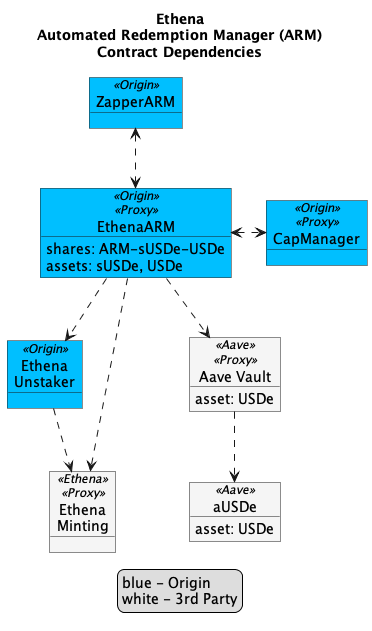
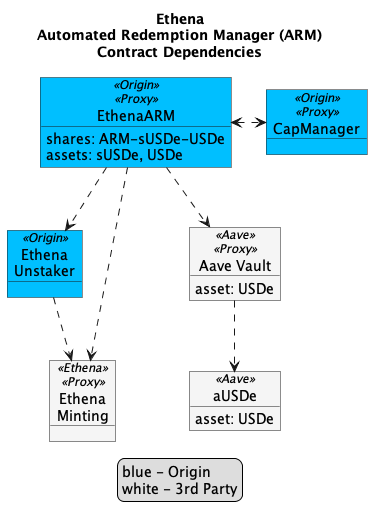
Set Lido ARM off Kyber prices (#174)
* Added Kyber to setPrices used by the Lido ARM

* Updated Lido ARM's set price Action

* Updated maxSellPrice for Lido ARM setPrices Actions

* Increased the Lido ARM allocate threshold

* Remove Zapper from Ethena contract diagram

* Update LidoARM ABI

diff --git a/src/js/tasks/lidoMorphoPrices.js b/src/js/tasks/lidoMorphoPrices.js
@@ -3,6 +3,7 @@ const { formatUnits, parseUnits } = require("ethers");
 const addresses = require("../utils/addresses");
 
 const { abs } = require("../utils/maths");
+const { getKyberPrices } = require("../utils/kyber");
 const { get1InchPrices } = require("../utils/1Inch");
 const { logTxDetails } = require("../utils/txLogger");
 const { getCurvePrices } = require("../utils/curve");
@@ -26,8 +27,10 @@ const setPrices = async (options) => {
     offset,
     curve,
     inch,
+    kyber,
     market,
     priceOffset,
+    dryrun,
   } = options;
 
   // 1. Get current ARM prices
@@ -40,7 +43,7 @@ const setPrices = async (options) => {
   let targetBuyPrice;
   let targetSellPrice;
   // 2. If no buy/sell prices are provided, calculate them using midPrice/1Inch/Curve
-  if (!buyPrice && !sellPrice && (midPrice || curve || inch)) {
+  if (!buyPrice && !sellPrice && (midPrice || curve || inch || kyber)) {
     // Set 1Inch options
     const assets = {
       liquid: await arm.liquidityAsset(),
@@ -58,20 +61,25 @@ const setPrices = async (options) => {
         : inch
           ? // 2.1.b Otherwise, get prices from 1Inch
             await get1InchPrices(options.amount, assets, inchFee)
-          : // 2.1.c Or from Curve if specified
-            await getCurvePrices({
-              ...options,
-              poolAddress: addresses.mainnet.CurveNgStEthPool,
-            });
+          : kyber
+            ? // 2.1.c Or from Kyber if specified
+              await getKyberPrices(options.amount, assets)
+            : // 2.1.d Or from Curve if specified
+              await getCurvePrices({
+                ...options,
+                poolAddress: addresses.mainnet.CurveNgStEthPool,
+              });
     log(
       `\nReference prices from ${
         midPrice
           ? "midPrice"
           : inch
             ? "1Inch"
-            : curve
-              ? "Curve"
-              : "unknown source"
+            : kyber
+              ? "Kyber"
+              : curve
+                ? "Curve"
+                : "unknown source"
       }:`,
     );
     log(`mid price          : ${formatUnits(referencePrices.midPrice)}`);
@@ -224,6 +232,11 @@ const setPrices = async (options) => {
     console.log(`About to update ARM prices`);
     console.log(`sell: ${formatUnits(targetSellPrice, 36)}`);
     console.log(`buy : ${formatUnits(targetBuyPrice, 36)}`);
+
+    if (dryrun) {
+      console.log(`Dry run mode - not calling setPrices`);
+      return;
+    }
 
     const tx = await arm
       .connect(signer)

diff --git a/src/js/tasks/tasks.js b/src/js/tasks/tasks.js
@@ -672,25 +672,25 @@ subtask("setPrices", "Update Lido ARM's swap prices")
   )
   .addOptionalParam(
     "minSellPrice",
-    "The min sell price when pricing off market. eg 1Inch or Curve",
+    "The min sell price when pricing off market. eg 1Inch, Kyber or Curve",
     undefined,
     types.float,
   )
   .addOptionalParam(
     "maxSellPrice",
-    "The max sell price when pricing off market. eg 1Inch or Curve",
+    "The max sell price when pricing off market. eg 1Inch, Kyber or Curve",
     undefined,
     types.float,
   )
   .addOptionalParam(
     "maxBuyPrice",
-    "The max buy price when pricing off market. eg 1Inch or Curve",
+    "The max buy price when pricing off market. eg 1Inch, Kyber or Curve",
     undefined,
     types.float,
   )
   .addOptionalParam(
     "minBuyPrice",
-    "The min buy price when pricing off market. eg 1Inch or Curve",
+    "The min buy price when pricing off market. eg 1Inch, Kyber or Curve",
     undefined,
     types.float,
   )
@@ -720,20 +720,32 @@ subtask("setPrices", "Update Lido ARM's swap prices")
   )
   .addOptionalParam(
     "curve",
-    "Set prices off the current Curve mid price.",
+    "Set prices off the current Curve prices",
     undefined,
     types.boolean,
   )
   .addOptionalParam(
     "inch",
-    "Set prices off the current 1Inch mid price.",
+    "Set prices off the current 1Inch prices",
+    undefined,
+    types.boolean,
+  )
+  .addOptionalParam(
+    "kyber",
+    "Set prices off the current Kyber prices",
     undefined,
     types.boolean,
   )
   .addOptionalParam(
     "priceOffset",
-    "Offset the 1Inch/Curve buyPrice by `--offset` amount in basis points",
+    "Offset the 1Inch/Kyber/Curve buyPrice by `--offset` amount in basis points",
     undefined,
+    types.boolean,
+  )
+  .addOptionalParam(
+    "dryrun",
+    "Do not call setPrices. Just log the computed prices.",
+    false,
     types.boolean,
   )
   .setAction(async (taskArgs) => {

diff --git a/src/js/actions/setPrices.js b/src/js/actions/setPrices.js
@@ -28,15 +28,17 @@ const handler = async (event) => {
       arm,
       // sellPrice: 0.9998,
       // buyPrice: 0.9997,
-      maxSellPrice: 0.9999,
-      minSellPrice: 0.9998,
-      maxBuyPrice: 0.998,
-      minBuyPrice: 0.995,
-      inch: true,
+      maxSellPrice: 1.0,
+      minSellPrice: 0.9999,
+      maxBuyPrice: 0.999,
+      minBuyPrice: 0.998,
+      // inch: true,
+      // curve: true,
+      kyber: true,
       amount: 100,
-      tolerance: 0.2,
-      fee: 0.8,
-      offset: 0.4,
+      tolerance: 0.1,
+      fee: 0.5,
+      offset: 0.1,
       priceOffset: true,
       blockTag: "latest",
     });

diff --git a/src/js/actions/allocateLido.js b/src/js/actions/allocateLido.js
@@ -3,7 +3,7 @@ const { ethers } = require("ethers");
 
 const { allocate } = require("../tasks/admin");
 const { mainnet } = require("../utils/addresses");
-const armAbi = require("../../abis/OriginARM.json");
+const armAbi = require("../../abis/LidoARM.json");
 
 // Entrypoint for the Defender Action
 const handler = async (event) => {
@@ -25,7 +25,7 @@ const handler = async (event) => {
   await allocate({
     signer,
     arm,
-    threshold: 20,
+    threshold: 200,
     maxGasPrice: 5,
   });
 };
